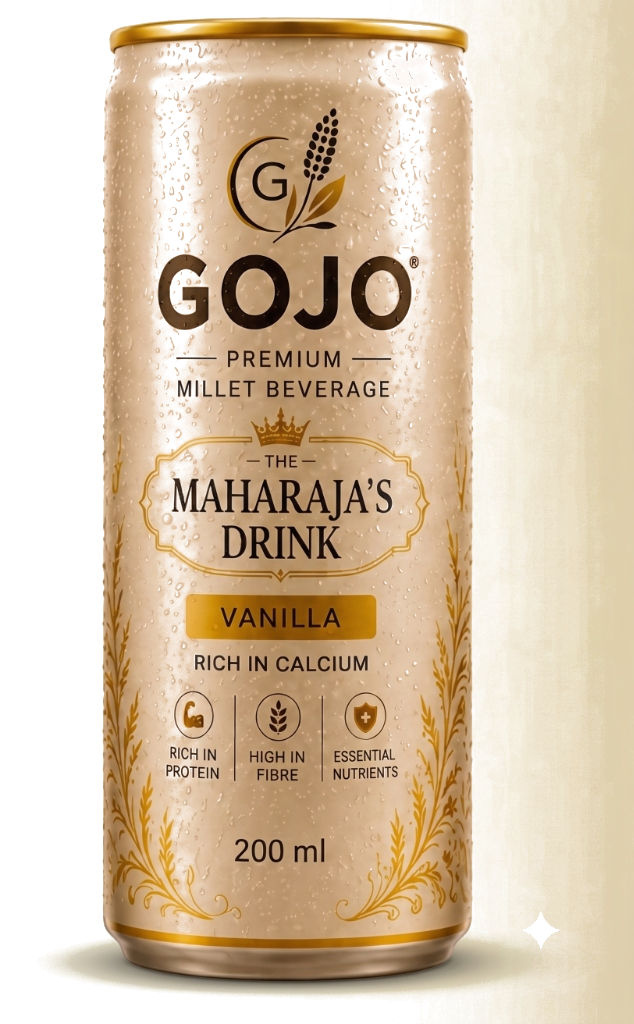
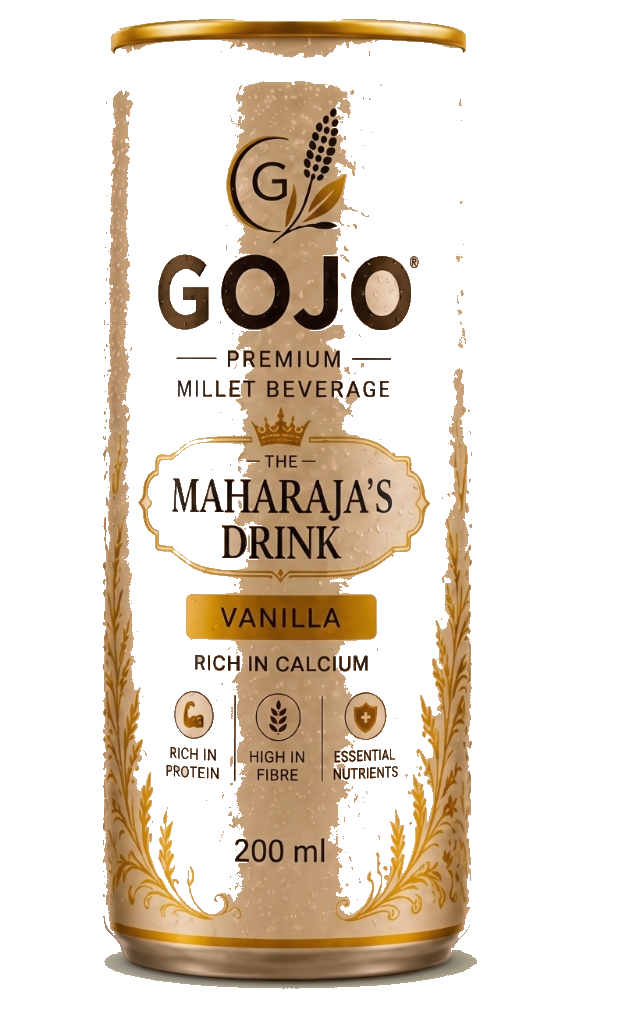
Remove 100% of right-side background pixels from vanilla can image

diff --git a/src/components/brand/GojoCanGraphic.tsx b/src/components/brand/GojoCanGraphic.tsx
@@ -95,7 +95,7 @@ export function GojoCanGraphic({
         <div className="absolute inset-0 bg-gradient-to-tr from-[#DFCFAD]/30 via-[#F2EBCE]/40 to-transparent blur-2xl rounded-full pointer-events-none scale-125" />
 
         <img
-          src="/images/gojo_vanilla_can_real.png?v=3"
+          src="/images/gojo_vanilla_can_real.png?v=4"
           alt="GOJO Maharaja's Drink Vanilla"
           width={width}
           height={height}
